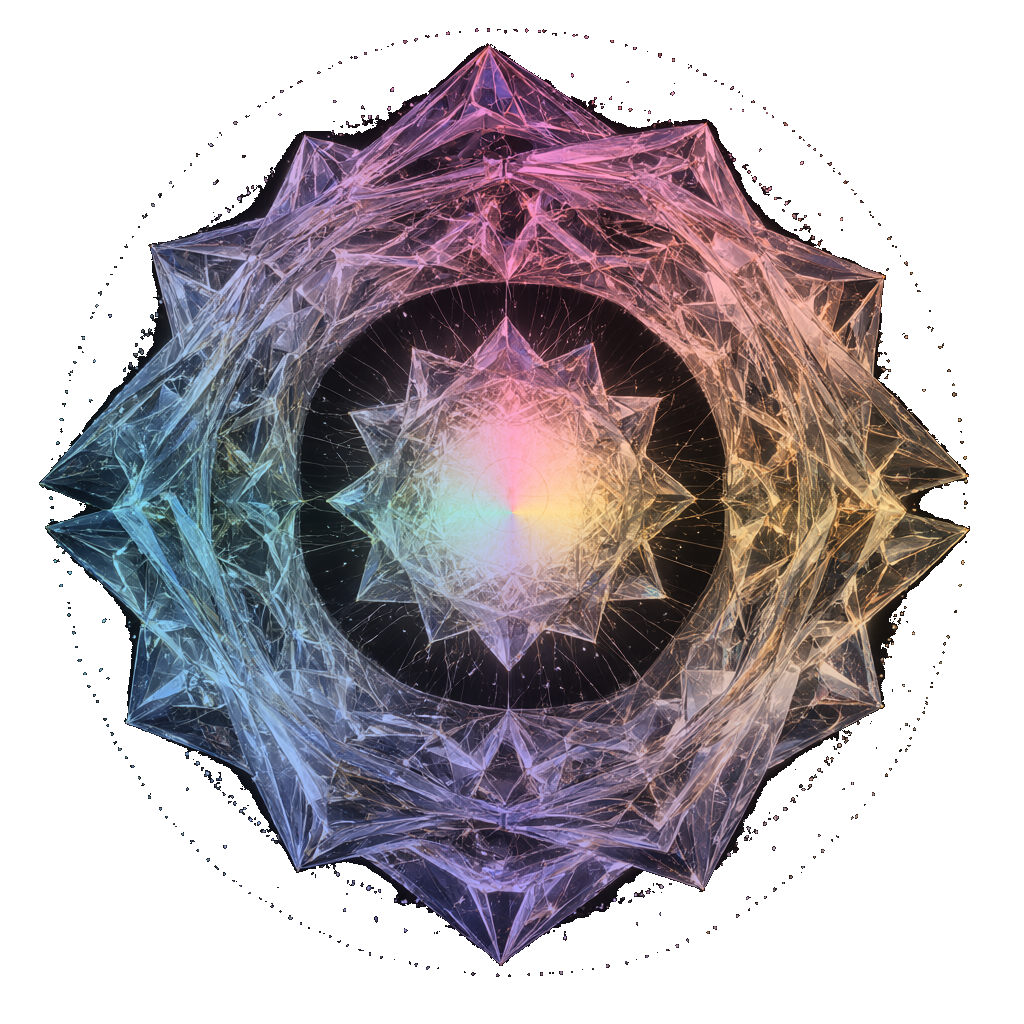
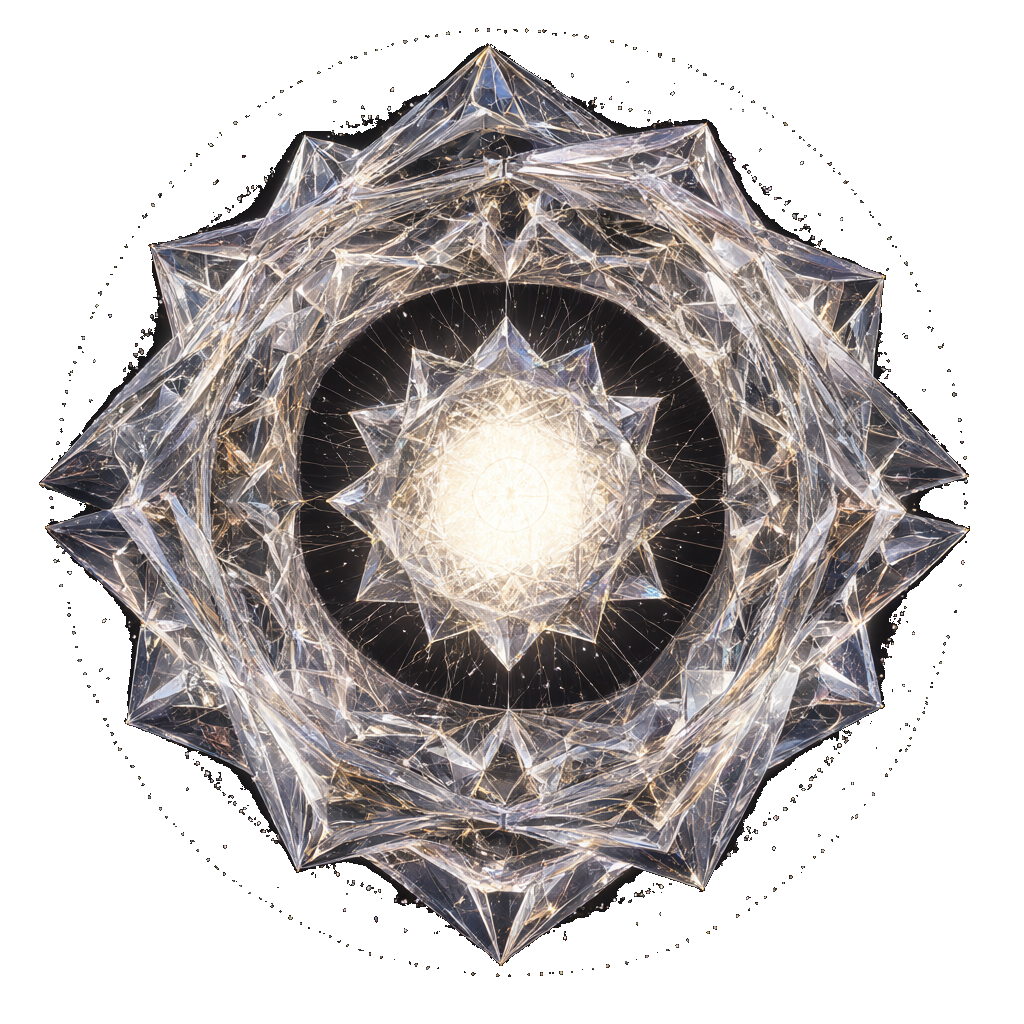
Refine phase1 colors, opaque circular rings and phase2 scale

diff --git a/game3.js b/game3.js
@@ -2180,16 +2180,16 @@ function bossGlowLayer(key,img,rgb){
 }
 function drawSpectralAura(w,h){
   if(!boss) return;
+  var cols=['#66d8ff','#ff78c8','#ffd36b','#9d8cff'];
   ctx.save();ctx.globalCompositeOperation='lighter';
-  var g=ctx.createRadialGradient(boss.x,boss.y,w*.18,boss.x,boss.y,w*.70);
-  g.addColorStop(0,'rgba(255,220,150,0.10)');
-  g.addColorStop(.35,'rgba(255,90,200,0.08)');
-  g.addColorStop(.62,'rgba(80,210,255,0.09)');
-  g.addColorStop(.84,'rgba(130,100,255,0.06)');
-  g.addColorStop(1,'rgba(0,0,0,0)');
-  ctx.fillStyle=g;ctx.beginPath();ctx.arc(boss.x,boss.y,w*.72,0,TAU);ctx.fill();
+  for(var k=0;k<6;k++){
+    var a0=time*(.14+k*.02)+k*1.05;
+    ctx.globalAlpha=.30-k*.03;ctx.strokeStyle=cols[k%4];ctx.lineWidth=1.8;
+    ctx.beginPath();ctx.arc(boss.x,boss.y,w*(.46+k*.028),a0,a0+1.15);ctx.stroke();
+  }
   ctx.restore();ctx.globalAlpha=1;
 }
+
 function drawPhase2BossHalo(w,h){
   if(!boss) return;
   var imgs=[GIMG.b1_1,GIMG.b2_1,GIMG.b3_1,GIMG.b4_1];
@@ -2199,9 +2199,9 @@ function drawPhase2BossHalo(w,h){
     var im=imgs[k%4];if(!im||!im.complete) continue;
     var a=k*TAU/24+time*.055;
     var rr=w*.46;
-    var px=boss.x+Math.cos(a)*rr,py=boss.y+Math.sin(a)*rr*.72;
+    var px=boss.x+Math.cos(a)*rr,py=boss.y+Math.sin(a)*rr;
     var ss=w*.11;
-    ctx.save();ctx.globalAlpha=.28;
+    ctx.save();ctx.globalAlpha=1;
     ctx.translate(px,py);ctx.rotate(a+Math.PI/2+time*.06);if(k%2)ctx.scale(-1,1);
     ctx.drawImage(im,-ss/2,-ss/2,ss,ss);ctx.restore();
   }
@@ -2218,7 +2218,7 @@ function drawChronosEntityHalo(w,h){
       var a=j/n*TAU+rot;
       var px=boss.x+Math.cos(a)*rr,py=boss.y+Math.sin(a)*rr*.74;
       ctx.globalAlpha=.18+.14*Math.sin(time*2.2+j*.7+ring);
-      ctx.fillStyle=(ring%3===0)?'#fff6d8':'#c9e9ff';
+      ctx.fillStyle=(ring%4===0)?'#fff6d8':(ring%4===1?'#7fe6ff':(ring%4===2?'#ff86cf':'#b6a2ff'));
       ctx.beginPath();ctx.arc(px,py,1.1+(ring%2)*.5,0,TAU);ctx.fill();
     }
   }
@@ -2251,6 +2251,7 @@ function drawBoss(){
   if(stage===4&&phase===0){img=GIMG.np1||img;}
   if(!img||!img.complete) return;
   var phaseScale=[1,1.06,1.12][phase]||1;
+  if(stage===4&&phase===1) phaseScale*=0.70;
   var w=boss.def.w*phaseScale*1.15,h=w*img.height/img.width;
   var cols=boss.def.glow||['90,200,255','255,120,220','255,170,80'],col=cols[phase]||cols[0];
   ctx.save();ctx.globalCompositeOperation='lighter';
@@ -2330,12 +2331,13 @@ function drawBoss(){
     ctx.globalAlpha=1;ctx.globalCompositeOperation='source-over';
     ctx.drawImage(img,-w/2,-h/2,w,h);
     if(phase===0){
+      var pcols=['#7fe6ff','#ff86cf','#ffd36b','#b6a2ff'];
       for(var sg=0;sg<3;sg++){
-        ctx.save();ctx.globalCompositeOperation='lighter';ctx.globalAlpha=.085;
-        if('filter' in ctx) ctx.filter='hue-rotate('+(45+sg*105)+'deg) saturate(1.8)';
-        ctx.rotate(time*(.10+sg*.045));ctx.scale(1.035+sg*.018,1.035+sg*.018);
-        ctx.drawImage(img,-w/2,-h/2,w,h);
-        ctx.filter='none';ctx.restore();
+        ctx.save();ctx.globalCompositeOperation='lighter';ctx.globalAlpha=.42;
+        ctx.strokeStyle=pcols[sg];ctx.lineWidth=2.0;
+        var aa=time*(.18+sg*.07)+sg*2.0;
+        ctx.beginPath();ctx.arc(0,0,w*(.40+sg*.035),aa,aa+1.05);ctx.stroke();
+        ctx.restore();
       }
       ctx.globalAlpha=1;ctx.globalCompositeOperation='source-over';
     }
@@ -2901,7 +2903,7 @@ function drawFusionScene(tArg){
     if(p<-.05) continue;
     var dir=i%2?1:-1;
     var qe=q*q*(3-2*q);
-    var startAng=i*1.62+0.45, spin=2.2*TAU*dir;
+    var startAng=(i%2?0:Math.PI)+(i>>1)*.22, spin=2.2*TAU*dir;
     function spiralPos(qq){
       var aa=startAng+qq*spin, rr=Math.max(W,H)*.82*(1-qq)+18;
       return {x:cx+Math.cos(aa)*rr,y:cy+Math.sin(aa)*rr*.72};
@@ -2913,19 +2915,17 @@ function drawFusionScene(tArg){
       ctx.save();ctx.globalAlpha=fade*.95;ctx.translate(x,y);ctx.rotate(-dir*(.1+qe*.35));ctx.drawImage(im,-sz/2,-sz/2,sz,sz);ctx.restore();ctx.globalAlpha=1;
       if(q<.7){ctx.save();ctx.globalAlpha=fade*.6;ctx.textAlign='center';ctx.fillStyle=cols[i];ctx.font='8px monospace';ctx.fillText(names[i],W/2,H*.255);ctx.restore();ctx.globalAlpha=1;}
     }
-    // exactly 24 whole-sprite copies per boss: trail along the spiral, then fold into a 24-way ring
-    var ringBlend=cl((q-.38)/.45);
-    var baseR=160-i*12;
-    for(var k2=0;k2<24;k2++){
-      var qk=cl(qe-(k2/23)*.22);
-      var tp=spiralPos(qk);
-      var ra=k2*TAU/24+i*.35+time*.05*dir;
-      var rx=cx+Math.cos(ra)*baseR, ry=cy+Math.sin(ra)*baseR*.72;
-      var px=tp.x+(rx-tp.x)*ringBlend, py=tp.y+(ry-tp.y)*ringBlend;
-      var ss=98;
-      ctx.save();ctx.globalAlpha=.44*(1-ringBlend*.12);
-      ctx.translate(px,py);ctx.rotate(ra+Math.PI/2+time*.10*dir);if((k2+i)%2)ctx.scale(-1,1);
-      ctx.drawImage(im,-ss/2,-ss/2,ss,ss);ctx.restore();
+    // exactly 24 opaque copies per boss, locked to a perfect circular ring
+    if(q>.48){
+      var baseR=150-i*10;
+      for(var k2=0;k2<24;k2++){
+        var a=k2*TAU/24+i*.35+time*.035*dir;
+        var px=cx+Math.cos(a)*baseR, py=cy+Math.sin(a)*baseR;
+        var ss=100;
+        ctx.save();ctx.globalAlpha=1;
+        ctx.translate(px,py);ctx.rotate(a+Math.PI/2+time*.08*dir);if((k2+i)%2)ctx.scale(-1,1);
+        ctx.drawImage(im,-ss/2,-ss/2,ss,ss);ctx.restore();
+      }
     }
   }
   // AI distortion entity growing at the eye, then absorbing the four rings

diff --git a/docs/STAGE5.md b/docs/STAGE5.md
@@ -24,16 +24,19 @@ Status: implemented as the final stage.
 
 - The entity arrives from far away: `RESONANCE` zoom-in over 3.6s, using the AI frames `np1`/`np3` and a procedural resonance halo.
 - The four old bosses are **not** part of the entrance; they appear only after phase 1 is defeated.
-- Phase 1 uses the AI Hedron-like entity (`np1`–`np3`) with spectral tinting, hue-rotated ghost frames, a warm core and a rotating resonance halo; no old-boss armor.
+- Phase 1 uses the AI Hedron-like entity (`np1`–`np3`) with a high-contrast white-gold crystalline body, sharp cyan/magenta/violet rim arcs and a rotating dot halo; no soft full-body rainbow wash and no old-boss armor.
 - After appearing at the center, the phase-1 entity rises to the upper screen (about 26% height) over roughly one second.
 - Phase 1 has 36% of the total Boss 5 HP (3629). When it reaches 0, the game enters a 9.4s fusion cinematic.
-- Each boss starts fully off-screen and approaches along a **vortex spiral**, leaving copies on the curved path.
-- Each boss contributes exactly **24 whole-sprite copies**: the copies start as the spiral trail and fold into a 24-way ring.
+- Each boss enters from an off-screen **side edge** (left/right alternating), then follows a vortex spiral inward.
+- Each boss contributes exactly **24 whole-sprite copies**.
+- The copies are fully opaque and snapped to a perfect circular 24-way ring; no translucent afterimage trail.
 - Source-over overlap, no depth sorting: copies visibly overlap and occlude each other.
-- The phase-2 Boss keeps a matching 24-copy halo around its body.
+- Ring is a true circle, not an ellipse.
+- The phase-2 Boss keeps a matching 24-copy opaque halo around its body.
+- Phase-2 body is scaled to 70% of the previous composite size.
 - Finished rings remain in place around the eye for the next boss.
 - After all four rings are formed, the AI distortion frames absorb them and the composite phase-2 body materializes.
-- Phase 2 uses the original Boss 5 phase-1 composite art as its body, starts with the remaining 64% HP (6451), and rises to the upper screen after fusion.
+- Phase 2 uses the original Boss 5 phase-1 composite art as its body, scaled to 70%, starts with the remaining 64% HP (6451), and rises to the upper screen after fusion.
 - Phase 3 keeps the existing phase-3 collapse art.
 - The phase-2 composite then fights with the old bosses' attack patterns. Phase 3 begins at 30% of the phase-2 bar and returns to the black-hole collapse form.
 - AI frames: `b5_entity`, `b5_fusion_mid1`, `b5_fusion_mid2`.
